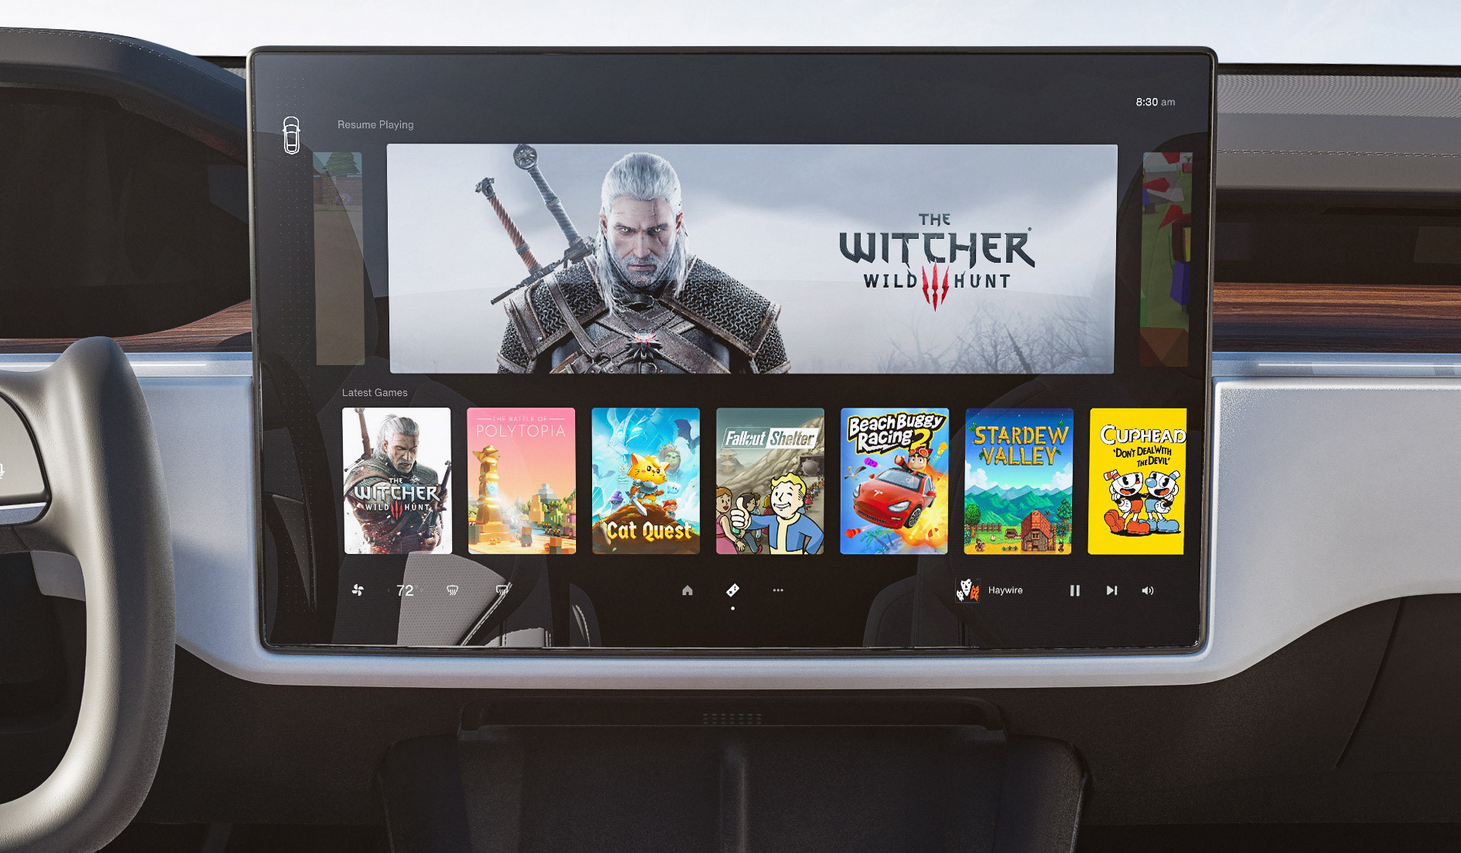
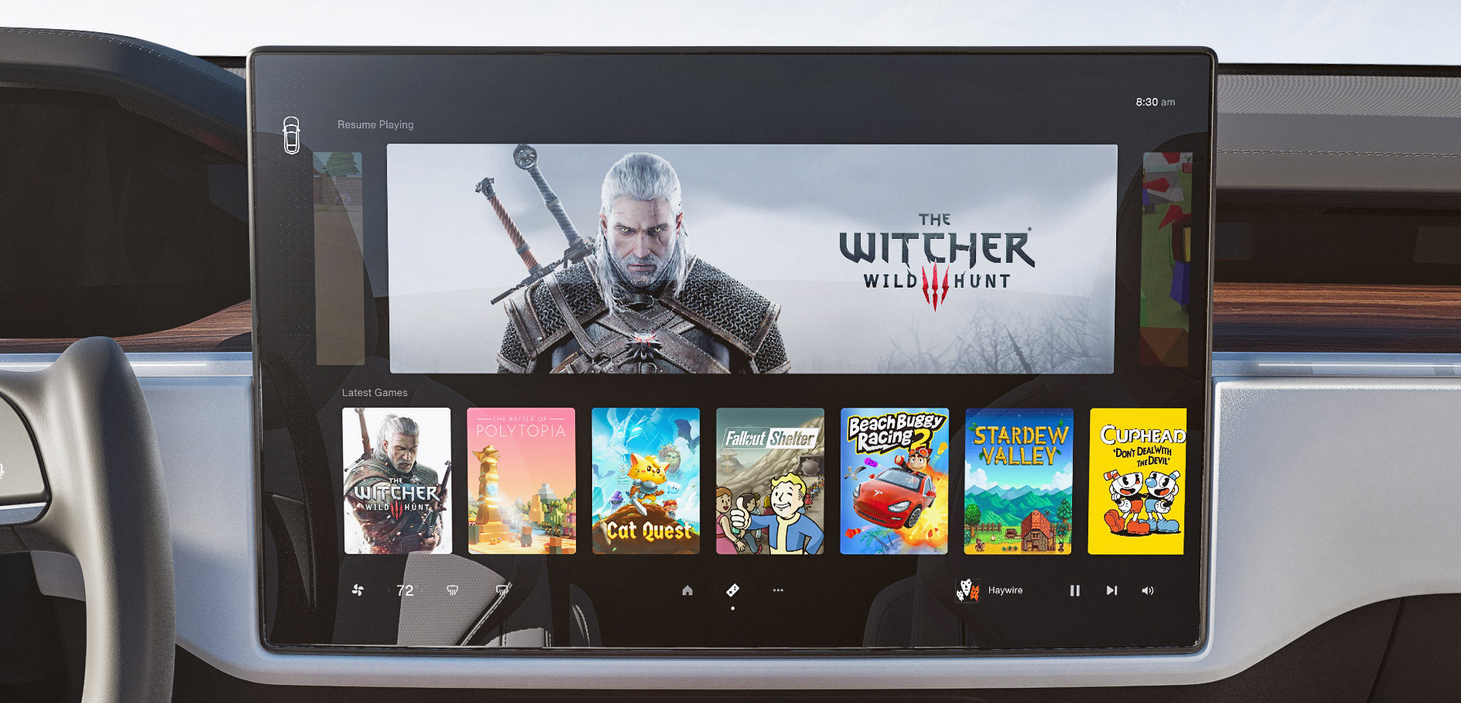
fix cut image fit content

diff --git a/app/styles/styles.css b/app/styles/styles.css
@@ -1,93 +1,1 @@
-html {
-  scroll-behavior: smooth;
-}
-
-body {
-  overflow-x: hidden;
-}
-
-*, *:before, *:after {
-  box-sizing: border-box;
-}
-
-html, body, div, span, object, iframe, figure, h1, h2, h3, h4, h5, h6, p, blockquote, pre, a, code, em, img, small, strike, strong, tt, b, u, i, ol, ul, li, fieldset, form, label, table, caption, tbody, tfoot, thead, tr, th, td, main, canvas, embed, footer, header, nav, section, video {
-  margin: 0;
-  padding: 0;
-  font: inherit;
-  font-family: inherit;
-  vertical-align: baseline;
-  border: 0;
-  text-rendering: optimizeLegibility;
-  -webkit-font-smoothing: antialiased;
-  -webkit-text-size-adjust: none;
-     -moz-text-size-adjust: none;
-          text-size-adjust: none;
-}
-
-a {
-  text-decoration: none;
-  color: inherit;
-}
-
-footer, header, nav, section, main {
-  display: block;
-}
-
-@media (hover: none) {
-  html ::-webkit-scrollbar {
-    width: 10px;
-    height: 10px;
-    border-radius: 5px;
-  }
-  html ::-webkit-scrollbar-track {
-    background: #fff;
-  }
-  html ::-webkit-scrollbar-thumb {
-    width: 6px;
-    height: 6px;
-    border: solid 2px #fff;
-    border-radius: 6px;
-    background: black;
-  }
-  html ::-webkit-scrollbar-thumb:hover {
-    background: black;
-  }
-}
-
-body {
-  line-height: 1;
-}
-
-ol, ul {
-  list-style: none;
-}
-
-blockquote, q {
-  quotes: none;
-}
-
-blockquote:before, blockquote:after, q:before, q:after {
-  content: "";
-  content: none;
-}
-
-table {
-  border-spacing: 0;
-  border-collapse: collapse;
-}
-
-input {
-  border-radius: 0;
-  -webkit-appearance: none;
-}
-
-img {
-  max-width: 100%;
-}
-
-button {
-  border: 0;
-  background: none;
-  font-family: inherit;
-  cursor: pointer;
-}/*# sourceMappingURL=styles.css.map */
+html{scroll-behavior:smooth}body{overflow:hidden}*,*:before,*:after{box-sizing:border-box}html,body,div,span,object,iframe,figure,h1,h2,h3,h4,h5,h6,p,blockquote,pre,a,code,em,img,small,strike,strong,tt,b,u,i,ol,ul,li,fieldset,form,label,table,caption,tbody,tfoot,thead,tr,th,td,main,canvas,embed,footer,header,nav,section,video{margin:0;padding:0;font:inherit;font-family:inherit;vertical-align:baseline;border:0;text-rendering:optimizeLegibility;-webkit-font-smoothing:antialiased;text-size-adjust:none}a{text-decoration:none;color:inherit}footer,header,nav,section,main{display:block}@media(hover: none){html ::-webkit-scrollbar{width:10px;height:10px;border-radius:5px}html ::-webkit-scrollbar-track{background:#fff}html ::-webkit-scrollbar-thumb{width:6px;height:6px;border:solid 2px #fff;border-radius:6px;background:#000}html ::-webkit-scrollbar-thumb:hover{background:#000}}body{line-height:1}ol,ul{list-style:none}blockquote,q{quotes:none}blockquote:before,blockquote:after,q:before,q:after{content:"";content:none}table{border-spacing:0;border-collapse:collapse}input{border-radius:0;-webkit-appearance:none}img{max-width:100%}button{border:0;background:none;font-family:inherit;cursor:pointer}.dashboard__layout{overflow:hidden}.dashboard__img{width:100%;max-width:auto;min-height:100vh;object-fit:cover}/*# sourceMappingURL=styles.css.map */

diff --git a/app/components/BackgroundImage.jsx b/app/components/BackgroundImage.jsx
@@ -1,4 +1,4 @@
-import dashboard from '../assets/images/background-dashboard2.png';
+import dashboard from '../assets/images/background-dashboard.png';
 
 function BackgroundImage() {
 

diff --git a/app/styles/custom/components/_backgroundImage.scss b/app/styles/custom/components/_backgroundImage.scss
@@ -1,0 +1,11 @@
+
+.dashboard__layout {
+    overflow: hidden;
+}
+
+.dashboard__img {
+    width: 100%;
+    max-width: auto;
+    min-height: 100vh;
+    object-fit: cover;
+}

diff --git a/app/styles/base/necessary/_overall.scss b/app/styles/base/necessary/_overall.scss
@@ -3,6 +3,6 @@ html {
 }
 
 body {
-    overflow-x: hidden;
+    overflow: hidden;
 }
 

diff --git a/app/styles/custom/_load-custom.scss b/app/styles/custom/_load-custom.scss
@@ -1,0 +1,1 @@
+@import "components/backgroundImage";
